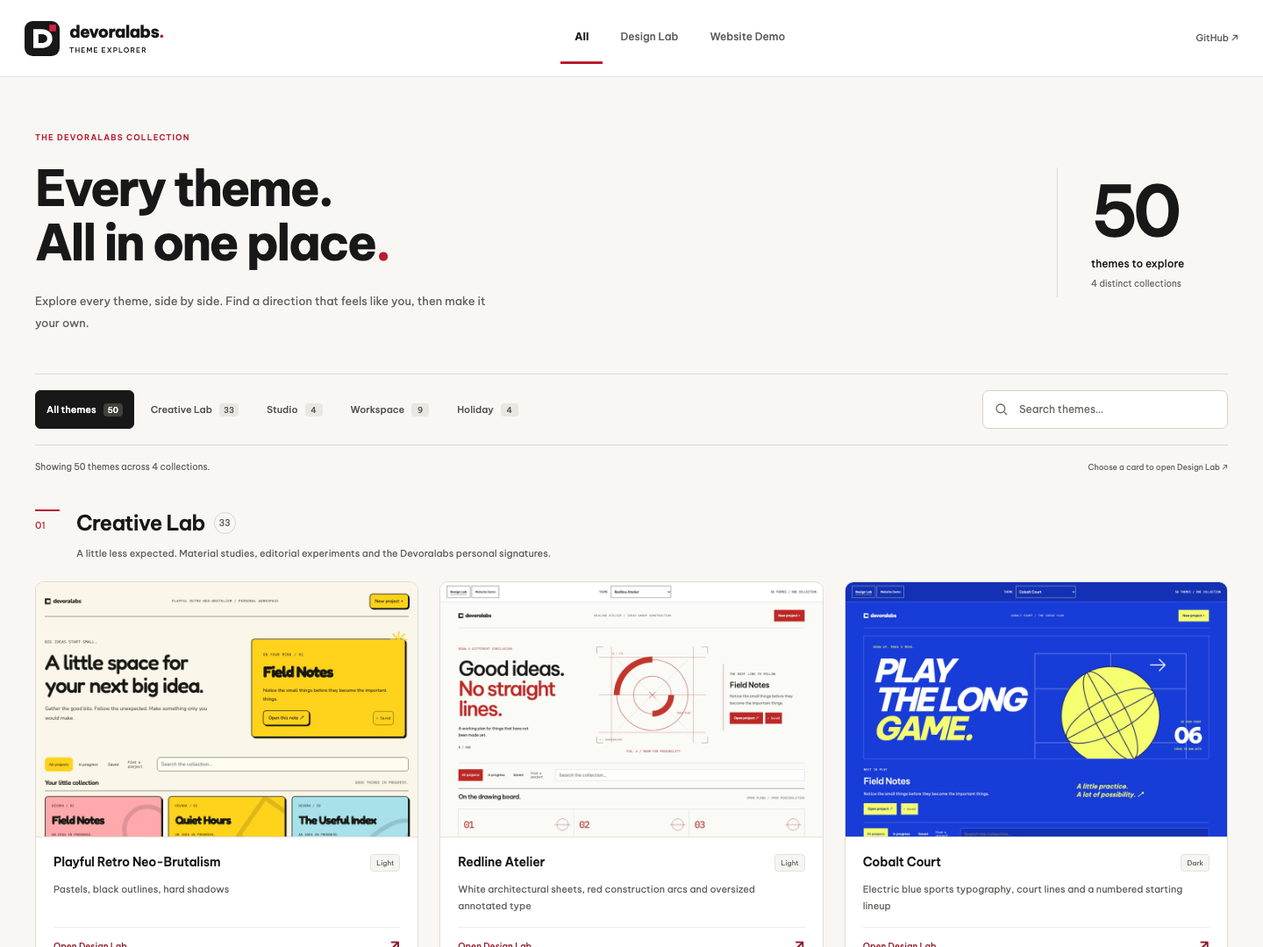
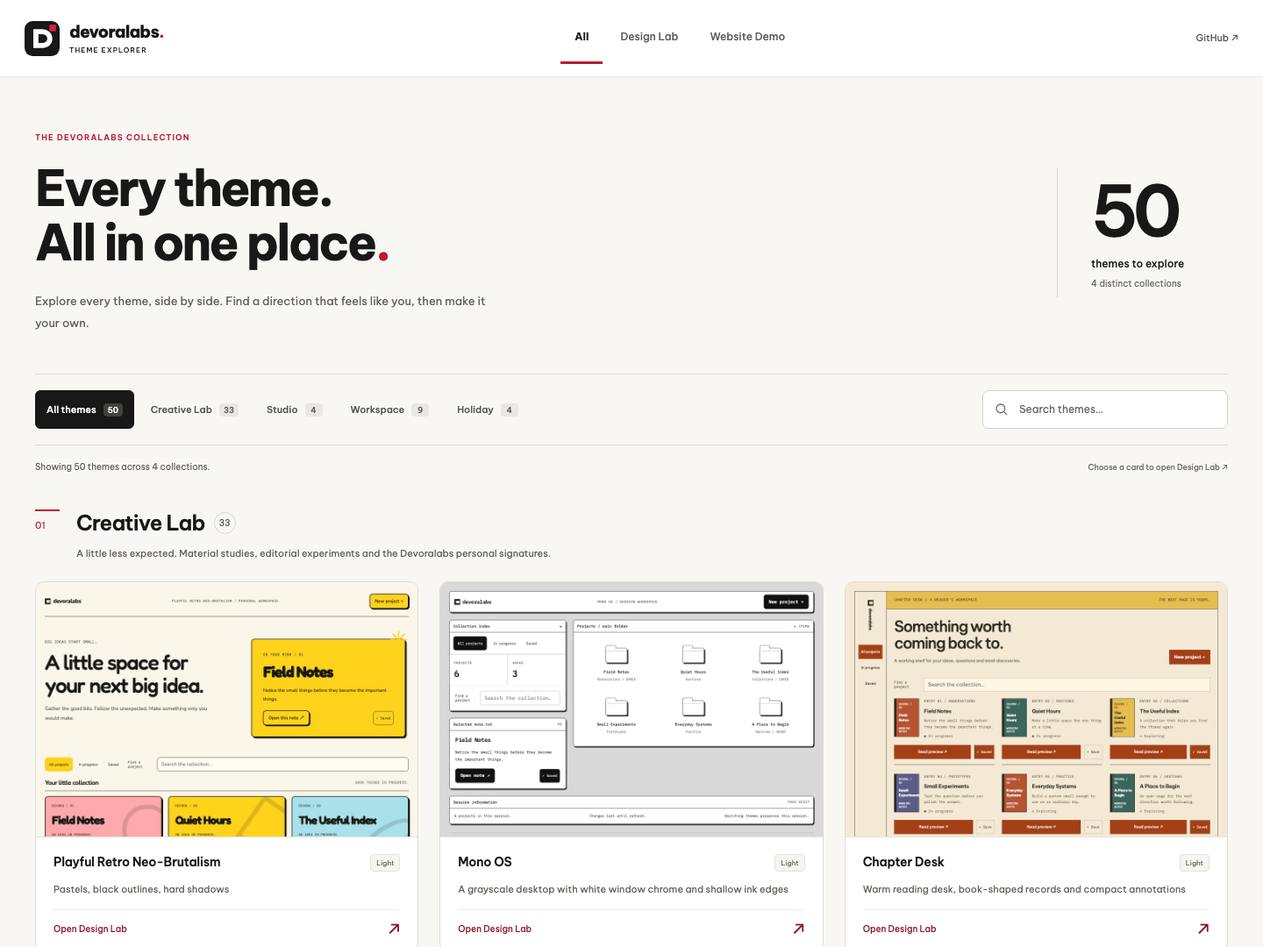
Place Volume Five themes immediately after SẮC / 01

Changed region(s): [[0.3438, 0.6111, 0.9688, 1.0], [0.6875, 0.9778, 0.75, 1.0], [0.0312, 0.9778, 0.0938, 1.0]]

diff --git a/assets/starter/theme-registry.js b/assets/starter/theme-registry.js
@@ -12,6 +12,94 @@ window.STUDIO_THEMES = {
       "styleFamily": "studio"
     },
     {
+      "id": "mono-os",
+      "name": "Mono OS",
+      "description": "A grayscale desktop with white window chrome and shallow ink edges",
+      "color": "#D9D9D9",
+      "tone": "light",
+      "family": "creative"
+    },
+    {
+      "id": "chapter-desk",
+      "name": "Chapter Desk",
+      "description": "Warm reading desk, book-shaped records and compact annotations",
+      "color": "#F4E9D5",
+      "tone": "light",
+      "family": "creative"
+    },
+    {
+      "id": "afterhours-fm",
+      "name": "Afterhours FM",
+      "description": "A dark creative queue with bright cover blocks and rounded controls",
+      "color": "#101010",
+      "tone": "dark",
+      "family": "creative"
+    },
+    {
+      "id": "margin-notes",
+      "name": "Margin Notes",
+      "description": "Layered editorial paper, serif notes and soft printed colors",
+      "color": "#F0E9DF",
+      "tone": "light",
+      "family": "creative"
+    },
+    {
+      "id": "grid-assembly",
+      "name": "Grid Assembly",
+      "description": "Exposed structural cells and stepped architectural content modules",
+      "color": "#F7F5EF",
+      "tone": "light",
+      "family": "creative"
+    },
+    {
+      "id": "specimen-press",
+      "name": "Specimen Press",
+      "description": "Publication-like objects, metadata tables and outlined display type",
+      "color": "#F6F6F2",
+      "tone": "light",
+      "family": "creative"
+    },
+    {
+      "id": "index-bureau",
+      "name": "Index Bureau",
+      "description": "A ruled monochrome archive with a three-column information hierarchy",
+      "color": "#FFFFFF",
+      "tone": "light",
+      "family": "creative"
+    },
+    {
+      "id": "devora-folio",
+      "name": "Devora Folio",
+      "description": "White editorial space, red notebook spines, black feature band and soft corners",
+      "color": "#FFFFFF",
+      "tone": "light",
+      "family": "creative"
+    },
+    {
+      "id": "devora-signal",
+      "name": "Devora Signal",
+      "description": "White workbench, red index tabs, black utility rail and square controls",
+      "color": "#FFFFFF",
+      "tone": "light",
+      "family": "creative"
+    },
+    {
+      "id": "devora-press",
+      "name": "Devora Press",
+      "description": "Warm editorial paper, persimmon actions, cobalt details and a cut-corner signature",
+      "color": "#F4F1E8",
+      "tone": "light",
+      "family": "creative"
+    },
+    {
+      "id": "sac-01",
+      "name": "SẮC / 01 — Paper / Brutalist",
+      "description": "Paper, black window frames, hard shadows and restrained red accents",
+      "color": "#F3F2EE",
+      "tone": "light",
+      "family": "creative"
+    },
+    {
       "id": "redline-atelier",
       "name": "Redline Atelier",
       "description": "White architectural sheets, red construction arcs and oversized annotated type",
@@ -109,94 +197,6 @@ window.STUDIO_THEMES = {
       "tone": "dark",
       "family": "creative",
       "edition": "volume-five"
-    },
-    {
-      "id": "mono-os",
-      "name": "Mono OS",
-      "description": "A grayscale desktop with white window chrome and shallow ink edges",
-      "color": "#D9D9D9",
-      "tone": "light",
-      "family": "creative"
-    },
-    {
-      "id": "chapter-desk",
-      "name": "Chapter Desk",
-      "description": "Warm reading desk, book-shaped records and compact annotations",
-      "color": "#F4E9D5",
-      "tone": "light",
-      "family": "creative"
-    },
-    {
-      "id": "afterhours-fm",
-      "name": "Afterhours FM",
-      "description": "A dark creative queue with bright cover blocks and rounded controls",
-      "color": "#101010",
-      "tone": "dark",
-      "family": "creative"
-    },
-    {
-      "id": "margin-notes",
-      "name": "Margin Notes",
-      "description": "Layered editorial paper, serif notes and soft printed colors",
-      "color": "#F0E9DF",
-      "tone": "light",
-      "family": "creative"
-    },
-    {
-      "id": "grid-assembly",
-      "name": "Grid Assembly",
-      "description": "Exposed structural cells and stepped architectural content modules",
-      "color": "#F7F5EF",
-      "tone": "light",
-      "family": "creative"
-    },
-    {
-      "id": "specimen-press",
-      "name": "Specimen Press",
-      "description": "Publication-like objects, metadata tables and outlined display type",
-      "color": "#F6F6F2",
-      "tone": "light",
-      "family": "creative"
-    },
-    {
-      "id": "index-bureau",
-      "name": "Index Bureau",
-      "description": "A ruled monochrome archive with a three-column information hierarchy",
-      "color": "#FFFFFF",
-      "tone": "light",
-      "family": "creative"
-    },
-    {
-      "id": "devora-folio",
-      "name": "Devora Folio",
-      "description": "White editorial space, red notebook spines, black feature band and soft corners",
-      "color": "#FFFFFF",
-      "tone": "light",
-      "family": "creative"
-    },
-    {
-      "id": "devora-signal",
-      "name": "Devora Signal",
-      "description": "White workbench, red index tabs, black utility rail and square controls",
-      "color": "#FFFFFF",
-      "tone": "light",
-      "family": "creative"
-    },
-    {
-      "id": "devora-press",
-      "name": "Devora Press",
-      "description": "Warm editorial paper, persimmon actions, cobalt details and a cut-corner signature",
-      "color": "#F4F1E8",
-      "tone": "light",
-      "family": "creative"
-    },
-    {
-      "id": "sac-01",
-      "name": "SẮC / 01 — Paper / Brutalist",
-      "description": "Paper, black window frames, hard shadows and restrained red accents",
-      "color": "#F3F2EE",
-      "tone": "light",
-      "family": "creative"
     },
     {
       "id": "paper-circuit",

diff --git a/README.md b/README.md
@@ -36,22 +36,22 @@ Actual screenshots of the bundled Design Lab. Each theme uses the same fictional
 
 ### Creative Lab collection
 
-Thirty-three expressive directions, led by Playful Retro Neo-Brutalism and the eleven new Volume Five studies.
+Thirty-three expressive directions, led by Playful Retro Neo-Brutalism. The eleven Volume Five studies follow SẮC / 01 — Paper / Brutalist as one continuous group.
 
 | Design Lab | Design Lab |
 | --- | --- |
-| **01 · [Playful Retro Neo-Brutalism](https://theme.devoralabs.tech/?theme=retro)**<br>[![Playful Retro Neo-Brutalism — Design Lab workspace](docs/screenshots/design-lab/retro.jpg)](https://theme.devoralabs.tech/?theme=retro)<br>Pastels, black outlines, hard shadows | **02 · [Redline Atelier](https://theme.devoralabs.tech/?theme=redline-atelier)**<br>[![Redline Atelier — Design Lab workspace](docs/screenshots/design-lab/redline-atelier.jpg)](https://theme.devoralabs.tech/?theme=redline-atelier)<br>White architectural sheets, red construction arcs and oversized annotated type |
-| **03 · [Cobalt Court](https://theme.devoralabs.tech/?theme=cobalt-court)**<br>[![Cobalt Court — Design Lab workspace](docs/screenshots/design-lab/cobalt-court.jpg)](https://theme.devoralabs.tech/?theme=cobalt-court)<br>Electric blue sports typography, court lines and a numbered starting lineup | **04 · [Darkroom Zero](https://theme.devoralabs.tech/?theme=darkroom-zero)**<br>[![Darkroom Zero — Design Lab workspace](docs/screenshots/design-lab/darkroom-zero.jpg)](https://theme.devoralabs.tech/?theme=darkroom-zero)<br>A photographic lightbox, burnt-orange safelight and perforated contact sheets |
-| **05 · [Fold Theory](https://theme.devoralabs.tech/?theme=fold-theory)**<br>[![Fold Theory — Design Lab workspace](docs/screenshots/design-lab/fold-theory.jpg)](https://theme.devoralabs.tech/?theme=fold-theory)<br>Vermilion paper sculpture, asymmetric folds and faceted white project sheets | **06 · [Motion Manifesto](https://theme.devoralabs.tech/?theme=motion-manifesto)**<br>[![Motion Manifesto — Design Lab workspace](docs/screenshots/design-lab/motion-manifesto.jpg)](https://theme.devoralabs.tech/?theme=motion-manifesto)<br>Red-and-black condensed statements, graphic arrows and a bold typographic work list |
-| **07 · [Pixel Riot](https://theme.devoralabs.tech/?theme=pixel-riot)**<br>[![Pixel Riot — Design Lab workspace](docs/screenshots/design-lab/pixel-riot.jpg)](https://theme.devoralabs.tech/?theme=pixel-riot)<br>Red-and-black pixel graphics, stepped window frames and an interactive idea inventory | **08 · [Cutout Dept.](https://theme.devoralabs.tech/?theme=cutout-dept)**<br>[![Cutout Dept. — Design Lab workspace](docs/screenshots/design-lab/cutout-dept.jpg)](https://theme.devoralabs.tech/?theme=cutout-dept)<br>Acid-lime cut-paper collage, black tape and a torn-edge creative pinboard |
-| **09 · [Overprint Studio](https://theme.devoralabs.tech/?theme=overprint-studio)**<br>[![Overprint Studio — Design Lab workspace](docs/screenshots/design-lab/overprint-studio.jpg)](https://theme.devoralabs.tech/?theme=overprint-studio)<br>Vermilion-and-cobalt print layers, registration marks and oversized graphic editions | **10 · [Carbon Bureau](https://theme.devoralabs.tech/?theme=carbon-bureau)**<br>[![Carbon Bureau — Design Lab workspace](docs/screenshots/design-lab/carbon-bureau.jpg)](https://theme.devoralabs.tech/?theme=carbon-bureau)<br>A red-backed filing desk, numbered dossier tabs and typewritten working records |
-| **11 · [Foundry Floor](https://theme.devoralabs.tech/?theme=foundry-floor)**<br>[![Foundry Floor — Design Lab workspace](docs/screenshots/design-lab/foundry-floor.jpg)](https://theme.devoralabs.tech/?theme=foundry-floor)<br>Industrial orange panels, mechanical forms and heavy workshop labels | **12 · [Frame Shift](https://theme.devoralabs.tech/?theme=frame-shift)**<br>[![Frame Shift — Design Lab workspace](docs/screenshots/design-lab/frame-shift.jpg)](https://theme.devoralabs.tech/?theme=frame-shift)<br>A black-and-crimson editing room with graphic film frames and a real project shot list |
-| **13 · [Mono OS](https://theme.devoralabs.tech/?theme=mono-os)**<br>[![Mono OS — Design Lab workspace](docs/screenshots/design-lab/mono-os.jpg)](https://theme.devoralabs.tech/?theme=mono-os)<br>A grayscale desktop with white window chrome and shallow ink edges | **14 · [Chapter Desk](https://theme.devoralabs.tech/?theme=chapter-desk)**<br>[![Chapter Desk — Design Lab workspace](docs/screenshots/design-lab/chapter-desk.jpg)](https://theme.devoralabs.tech/?theme=chapter-desk)<br>Warm reading desk, book-shaped records and compact annotations |
-| **15 · [Afterhours FM](https://theme.devoralabs.tech/?theme=afterhours-fm)**<br>[![Afterhours FM — Design Lab workspace](docs/screenshots/design-lab/afterhours-fm.jpg)](https://theme.devoralabs.tech/?theme=afterhours-fm)<br>A dark creative queue with bright cover blocks and rounded controls | **16 · [Margin Notes](https://theme.devoralabs.tech/?theme=margin-notes)**<br>[![Margin Notes — Design Lab workspace](docs/screenshots/design-lab/margin-notes.jpg)](https://theme.devoralabs.tech/?theme=margin-notes)<br>Layered editorial paper, serif notes and soft printed colors |
-| **17 · [Grid Assembly](https://theme.devoralabs.tech/?theme=grid-assembly)**<br>[![Grid Assembly — Design Lab workspace](docs/screenshots/design-lab/grid-assembly.jpg)](https://theme.devoralabs.tech/?theme=grid-assembly)<br>Exposed structural cells and stepped architectural content modules | **18 · [Specimen Press](https://theme.devoralabs.tech/?theme=specimen-press)**<br>[![Specimen Press — Design Lab workspace](docs/screenshots/design-lab/specimen-press.jpg)](https://theme.devoralabs.tech/?theme=specimen-press)<br>Publication-like objects, metadata tables and outlined display type |
-| **19 · [Index Bureau](https://theme.devoralabs.tech/?theme=index-bureau)**<br>[![Index Bureau — Design Lab workspace](docs/screenshots/design-lab/index-bureau.jpg)](https://theme.devoralabs.tech/?theme=index-bureau)<br>A ruled monochrome archive with a three-column information hierarchy | **20 · [Devora Folio](https://theme.devoralabs.tech/?theme=devora-folio)**<br>[![Devora Folio — Design Lab workspace](docs/screenshots/design-lab/devora-folio.jpg)](https://theme.devoralabs.tech/?theme=devora-folio)<br>White editorial space, red notebook spines, black feature band and soft corners |
-| **21 · [Devora Signal](https://theme.devoralabs.tech/?theme=devora-signal)**<br>[![Devora Signal — Design Lab workspace](docs/screenshots/design-lab/devora-signal.jpg)](https://theme.devoralabs.tech/?theme=devora-signal)<br>White workbench, red index tabs, black utility rail and square controls | **22 · [Devora Press](https://theme.devoralabs.tech/?theme=devora-press)**<br>[![Devora Press — Design Lab workspace](docs/screenshots/design-lab/devora-press.jpg)](https://theme.devoralabs.tech/?theme=devora-press)<br>Warm editorial paper, persimmon actions, cobalt details and a cut-corner signature |
-| **23 · [SẮC / 01 — Paper / Brutalist](https://theme.devoralabs.tech/?theme=sac-01)**<br>[![SẮC / 01 — Paper / Brutalist — Design Lab workspace](docs/screenshots/design-lab/sac-01.jpg)](https://theme.devoralabs.tech/?theme=sac-01)<br>Paper, black window frames, hard shadows and restrained red accents | **24 · [Paper Circuit](https://theme.devoralabs.tech/?theme=paper-circuit)**<br>[![Paper Circuit — Design Lab workspace](docs/screenshots/design-lab/paper-circuit.jpg)](https://theme.devoralabs.tech/?theme=paper-circuit)<br>Folded drafting paper, electric blue traces and lime contacts |
+| **01 · [Playful Retro Neo-Brutalism](https://theme.devoralabs.tech/?theme=retro)**<br>[![Playful Retro Neo-Brutalism — Design Lab workspace](docs/screenshots/design-lab/retro.jpg)](https://theme.devoralabs.tech/?theme=retro)<br>Pastels, black outlines, hard shadows | **02 · [Mono OS](https://theme.devoralabs.tech/?theme=mono-os)**<br>[![Mono OS — Design Lab workspace](docs/screenshots/design-lab/mono-os.jpg)](https://theme.devoralabs.tech/?theme=mono-os)<br>A grayscale desktop with white window chrome and shallow ink edges |
+| **03 · [Chapter Desk](https://theme.devoralabs.tech/?theme=chapter-desk)**<br>[![Chapter Desk — Design Lab workspace](docs/screenshots/design-lab/chapter-desk.jpg)](https://theme.devoralabs.tech/?theme=chapter-desk)<br>Warm reading desk, book-shaped records and compact annotations | **04 · [Afterhours FM](https://theme.devoralabs.tech/?theme=afterhours-fm)**<br>[![Afterhours FM — Design Lab workspace](docs/screenshots/design-lab/afterhours-fm.jpg)](https://theme.devoralabs.tech/?theme=afterhours-fm)<br>A dark creative queue with bright cover blocks and rounded controls |
+| **05 · [Margin Notes](https://theme.devoralabs.tech/?theme=margin-notes)**<br>[![Margin Notes — Design Lab workspace](docs/screenshots/design-lab/margin-notes.jpg)](https://theme.devoralabs.tech/?theme=margin-notes)<br>Layered editorial paper, serif notes and soft printed colors | **06 · [Grid Assembly](https://theme.devoralabs.tech/?theme=grid-assembly)**<br>[![Grid Assembly — Design Lab workspace](docs/screenshots/design-lab/grid-assembly.jpg)](https://theme.devoralabs.tech/?theme=grid-assembly)<br>Exposed structural cells and stepped architectural content modules |
+| **07 · [Specimen Press](https://theme.devoralabs.tech/?theme=specimen-press)**<br>[![Specimen Press — Design Lab workspace](docs/screenshots/design-lab/specimen-press.jpg)](https://theme.devoralabs.tech/?theme=specimen-press)<br>Publication-like objects, metadata tables and outlined display type | **08 · [Index Bureau](https://theme.devoralabs.tech/?theme=index-bureau)**<br>[![Index Bureau — Design Lab workspace](docs/screenshots/design-lab/index-bureau.jpg)](https://theme.devoralabs.tech/?theme=index-bureau)<br>A ruled monochrome archive with a three-column information hierarchy |
+| **09 · [Devora Folio](https://theme.devoralabs.tech/?theme=devora-folio)**<br>[![Devora Folio — Design Lab workspace](docs/screenshots/design-lab/devora-folio.jpg)](https://theme.devoralabs.tech/?theme=devora-folio)<br>White editorial space, red notebook spines, black feature band and soft corners | **10 · [Devora Signal](https://theme.devoralabs.tech/?theme=devora-signal)**<br>[![Devora Signal — Design Lab workspace](docs/screenshots/design-lab/devora-signal.jpg)](https://theme.devoralabs.tech/?theme=devora-signal)<br>White workbench, red index tabs, black utility rail and square controls |
+| **11 · [Devora Press](https://theme.devoralabs.tech/?theme=devora-press)**<br>[![Devora Press — Design Lab workspace](docs/screenshots/design-lab/devora-press.jpg)](https://theme.devoralabs.tech/?theme=devora-press)<br>Warm editorial paper, persimmon actions, cobalt details and a cut-corner signature | **12 · [SẮC / 01 — Paper / Brutalist](https://theme.devoralabs.tech/?theme=sac-01)**<br>[![SẮC / 01 — Paper / Brutalist — Design Lab workspace](docs/screenshots/design-lab/sac-01.jpg)](https://theme.devoralabs.tech/?theme=sac-01)<br>Paper, black window frames, hard shadows and restrained red accents |
+| **13 · [Redline Atelier](https://theme.devoralabs.tech/?theme=redline-atelier)**<br>[![Redline Atelier — Design Lab workspace](docs/screenshots/design-lab/redline-atelier.jpg)](https://theme.devoralabs.tech/?theme=redline-atelier)<br>White architectural sheets, red construction arcs and oversized annotated type | **14 · [Cobalt Court](https://theme.devoralabs.tech/?theme=cobalt-court)**<br>[![Cobalt Court — Design Lab workspace](docs/screenshots/design-lab/cobalt-court.jpg)](https://theme.devoralabs.tech/?theme=cobalt-court)<br>Electric blue sports typography, court lines and a numbered starting lineup |
+| **15 · [Darkroom Zero](https://theme.devoralabs.tech/?theme=darkroom-zero)**<br>[![Darkroom Zero — Design Lab workspace](docs/screenshots/design-lab/darkroom-zero.jpg)](https://theme.devoralabs.tech/?theme=darkroom-zero)<br>A photographic lightbox, burnt-orange safelight and perforated contact sheets | **16 · [Fold Theory](https://theme.devoralabs.tech/?theme=fold-theory)**<br>[![Fold Theory — Design Lab workspace](docs/screenshots/design-lab/fold-theory.jpg)](https://theme.devoralabs.tech/?theme=fold-theory)<br>Vermilion paper sculpture, asymmetric folds and faceted white project sheets |
+| **17 · [Motion Manifesto](https://theme.devoralabs.tech/?theme=motion-manifesto)**<br>[![Motion Manifesto — Design Lab workspace](docs/screenshots/design-lab/motion-manifesto.jpg)](https://theme.devoralabs.tech/?theme=motion-manifesto)<br>Red-and-black condensed statements, graphic arrows and a bold typographic work list | **18 · [Pixel Riot](https://theme.devoralabs.tech/?theme=pixel-riot)**<br>[![Pixel Riot — Design Lab workspace](docs/screenshots/design-lab/pixel-riot.jpg)](https://theme.devoralabs.tech/?theme=pixel-riot)<br>Red-and-black pixel graphics, stepped window frames and an interactive idea inventory |
+| **19 · [Cutout Dept.](https://theme.devoralabs.tech/?theme=cutout-dept)**<br>[![Cutout Dept. — Design Lab workspace](docs/screenshots/design-lab/cutout-dept.jpg)](https://theme.devoralabs.tech/?theme=cutout-dept)<br>Acid-lime cut-paper collage, black tape and a torn-edge creative pinboard | **20 · [Overprint Studio](https://theme.devoralabs.tech/?theme=overprint-studio)**<br>[![Overprint Studio — Design Lab workspace](docs/screenshots/design-lab/overprint-studio.jpg)](https://theme.devoralabs.tech/?theme=overprint-studio)<br>Vermilion-and-cobalt print layers, registration marks and oversized graphic editions |
+| **21 · [Carbon Bureau](https://theme.devoralabs.tech/?theme=carbon-bureau)**<br>[![Carbon Bureau — Design Lab workspace](docs/screenshots/design-lab/carbon-bureau.jpg)](https://theme.devoralabs.tech/?theme=carbon-bureau)<br>A red-backed filing desk, numbered dossier tabs and typewritten working records | **22 · [Foundry Floor](https://theme.devoralabs.tech/?theme=foundry-floor)**<br>[![Foundry Floor — Design Lab workspace](docs/screenshots/design-lab/foundry-floor.jpg)](https://theme.devoralabs.tech/?theme=foundry-floor)<br>Industrial orange panels, mechanical forms and heavy workshop labels |
+| **23 · [Frame Shift](https://theme.devoralabs.tech/?theme=frame-shift)**<br>[![Frame Shift — Design Lab workspace](docs/screenshots/design-lab/frame-shift.jpg)](https://theme.devoralabs.tech/?theme=frame-shift)<br>A black-and-crimson editing room with graphic film frames and a real project shot list | **24 · [Paper Circuit](https://theme.devoralabs.tech/?theme=paper-circuit)**<br>[![Paper Circuit — Design Lab workspace](docs/screenshots/design-lab/paper-circuit.jpg)](https://theme.devoralabs.tech/?theme=paper-circuit)<br>Folded drafting paper, electric blue traces and lime contacts |
 | **25 · [Night Transit](https://theme.devoralabs.tech/?theme=night-transit)**<br>[![Night Transit — Design Lab workspace](docs/screenshots/design-lab/night-transit.jpg)](https://theme.devoralabs.tech/?theme=night-transit)<br>Midnight navy, route diagrams and amber ticket details | **26 · [Infrared Herbarium](https://theme.devoralabs.tech/?theme=infrared)**<br>[![Infrared Herbarium — Design Lab workspace](docs/screenshots/design-lab/infrared.jpg)](https://theme.devoralabs.tech/?theme=infrared)<br>Hot pink specimen sheets and dark botanical registration marks |
 | **27 · [Magnetic Poetry](https://theme.devoralabs.tech/?theme=magnetic-poetry)**<br>[![Magnetic Poetry — Design Lab workspace](docs/screenshots/design-lab/magnetic-poetry.jpg)](https://theme.devoralabs.tech/?theme=magnetic-poetry)<br>Scattered word tiles, fridge-silver surfaces and cherry magnets | **28 · [Porcelain Index](https://theme.devoralabs.tech/?theme=porcelain)**<br>[![Porcelain Index — Design Lab workspace](docs/screenshots/design-lab/porcelain.jpg)](https://theme.devoralabs.tech/?theme=porcelain)<br>Cobalt ceramic tiles, fine blue borders and museum labels |
 | **29 · [Velvet Orbit](https://theme.devoralabs.tech/?theme=velvet-orbit)**<br>[![Velvet Orbit — Design Lab workspace](docs/screenshots/design-lab/velvet-orbit.jpg)](https://theme.devoralabs.tech/?theme=velvet-orbit)<br>Aubergine velvet, copper orbital rings and curved gallery cards | **30 · [Solar Glasshouse](https://theme.devoralabs.tech/?theme=solar-glass)**<br>[![Solar Glasshouse — Design Lab workspace](docs/screenshots/design-lab/solar-glass.jpg)](https://theme.devoralabs.tech/?theme=solar-glass)<br>Transparent green panes, structural ribs and warm citrus |

diff --git a/references/design-lab.md b/references/design-lab.md
@@ -9,7 +9,7 @@ Use when the user wants to compare or adapt any theme in the all-theme Design La
 - **Canonical semantic tokens:** `assets/starter/lab/tokens.css` defines the common roles and seven experimental palettes; `lab/profiles.css` defines the original non-holiday identities. These include canvas, surface, foreground, muted foreground, structural/soft borders, accent/on-accent, focus, radius, shadow, display/body/metadata type and motion. Import only the selected theme's tokens or translate them into the host provider.
 - **Original layout examples:** `lab.css` and the named renderers in `lab.js` demonstrate composition. Their generic selectors are isolated to the Lab page. Do not import its global reset, session controller or HTML renderers into a production app wholesale.
 
-The overview shows Creative Lab first (33 themes), led by Playful Retro Neo-Brutalism, then the eleven Volume Five directions, followed by Mono OS and the earlier reverse-ordered Creative themes. Studio has four themes, Workspace nine and Holiday four. Browse order comes from `familyOrder` and the registry theme array; it is separate from each composition’s visual grammar.
+The overview shows Creative Lab first (33 themes), led by Playful Retro Neo-Brutalism, then Mono OS and the earlier reverse-ordered Creative themes. The eleven Volume Five directions form a continuous group immediately after SẮC / 01 — Paper / Brutalist. Studio has four themes, Workspace nine and Holiday four. Browse order comes from `familyOrder` and the registry theme array; it is separate from each composition’s visual grammar.
 
 ## Original theme composition families
 

diff --git a/references/integration.md b/references/integration.md
@@ -57,7 +57,7 @@ Fix overflow through wrapping, widths and grid minimums. Do not hide content def
 
 `all-themes.js` builds the overview from the existing registry, with a real preview image at `assets/previews/<theme-id>.jpg` for each theme. `all-themes.css` is isolated to that view. Gallery links are real theme URLs; ordinary clicks use the shell selection authority and preserve mounted preview sessions. Card navigation supports browser Back, and each view retains its own scroll position. The overview keeps its search and collection filter while hidden. Refresh the matching preview image after a visual theme change; capture the actual Lab rather than generating an approximate mockup.
 
-The current browse order is Creative Lab, Studio, Workspace, Holiday. Creative Lab starts with Retro, followed by Mono OS through Riso Post Office in registry order. All, the searchable picker and both standalone selectors use the same order. Keep stable theme IDs and the existing default when reordering.
+The current browse order is Creative Lab, Studio, Workspace, Holiday. Creative Lab starts with Retro, followed by Mono OS and the existing Creative themes. The eleven Volume Five studies appear together immediately after SẮC / 01 — Paper / Brutalist, from Redline Atelier through Frame Shift, before Paper Circuit. All, the searchable picker and both standalone selectors use the same order. Keep stable theme IDs and the existing default when reordering.
 
 ## Volume Five extension
 

diff --git a/references/volume-five.md b/references/volume-five.md
@@ -1,6 +1,6 @@
 # Volume Five — eleven new directions
 
-Eleven original compositions extend the collection from 39 to 50. They belong to Creative Lab. Playful Retro remains the first theme; the eleven additions follow it before the previously ordered Creative themes. Their reference demos use English copy.
+Eleven original compositions extend the collection from 39 to 50. They belong to Creative Lab. Playful Retro remains the first theme. The eleven additions form a continuous group immediately after SẮC / 01 — Paper / Brutalist, preserving their internal order from Redline Atelier through Frame Shift. Their reference demos use English copy.
 
 ## Sources and adaptation
 
